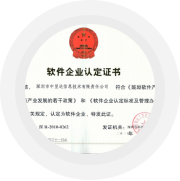
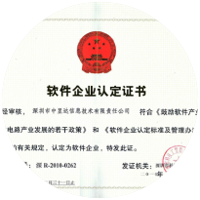
update aoubt/certifications

diff --git a/app/styles/partials/_about.scss b/app/styles/partials/_about.scss
@@ -47,32 +47,19 @@ $formBorderColor: #e1e1e1;
     }
 }
 
-#about .daili {
-    h1{
-        text-align: center !important;
-        margin-bottom: 20px;
+#about {
+    .daili , .certifications {
+        h1{
+            text-align: center !important;
+            margin-bottom: 20px;
+        }
     }
-}
-#about .daili-wrap{
-   max-width: 1000px;
-    margin : 0 auto;
+    .daili-wrap {
+        max-width: 1000px;
+        margin : 0 auto;
+    }
 }
 
-#about .time-line{
-    div:nth-child(1) {
-        margin: 0 0 30px 0 ;
-    }
-    h1,p{
-        text-align: center;
-        margin : 0 ;
-    }
-    img{
-        margin : 0 auto !important;
-        display : block;
-        max-width : 1290px !important;
-        width : 67.2%!important;
-    }
-}
 
 
 @media screen and (min-width:$pureLg) {
@@ -85,6 +72,16 @@ $formBorderColor: #e1e1e1;
                 margin-bottom: 30px;
                 width : 240px !important;
             }
+        }
+    }
+
+    #about .certifications-wrap {
+        width: 662px;
+        margin : 0 auto;
+        img{
+            min-width : 0;
+            width : 200px!important;
+            margin-right: 20px;
         }
     }
 
@@ -134,6 +131,22 @@ $formBorderColor: #e1e1e1;
             width : 320px !important;
         }
     }
+    #about .certifications-wrap {
+        width: 314px;
+        text-align: center;
+        margin: 0 auto;
+        img{
+            display: inline-block;
+            min-width: 0;
+            width : 140px!important;
+            margin-bottom: 20px;
+            margin-right: 30px;
+            &:nth-child(2n) {
+                margin-right:0px;
+            }
+        }
+    }
+
     #about {
         text-align: left;
         ul li img{
@@ -146,7 +159,6 @@ $formBorderColor: #e1e1e1;
                 width : 320px;
             }
         }
-
         .text-wrap{
             margin : 0 auto;
         }

diff --git a/app/components/About.js b/app/components/About.js
@@ -102,13 +102,17 @@ export default React.createClass({
                             </div>
                         </div>
                     </li>
-
-                    <li className="pure-g form time-line">
+                    <li className="pure-g certifications">
                         <div className="pure-u-1">
                             <h1>我们的资质</h1>
-                        </div>
-                        <div className="pure-u-1">
-                            <img src="../images/about/time-line.png" alt="公司发展历程"/>
+                            <div className="certifications-wrap">
+                                <img src="../images/about/certification-1.png" />
+                                <img src="../images/about/certification-2.png" />
+                                <img src="../images/about/certification-3.png" />
+                                <img src="../images/about/certification-4.png" />
+                                <img src="../images/about/certification-5.png" />
+                                <img src="../images/about/certification-6.png" />
+                            </div>
                         </div>
                     </li>
 

diff --git a/webpack.config.js b/webpack.config.js
@@ -31,7 +31,7 @@ module.exports = {
     plugins: [
         new HtmlWebpackPlugin({template : __dirname + "/app/index.tmpl.html"}),
         new webpack.HotModuleReplacementPlugin(),
-        // new OpenBrowserPlugin({ url: 'http://localhost:8080' }),
+        new OpenBrowserPlugin({ url: 'http://localhost:8080' }),
         new CopyWebpackPlugin([
             // {output}/file.txt
             { from: 'app/images' , to:'images' }
